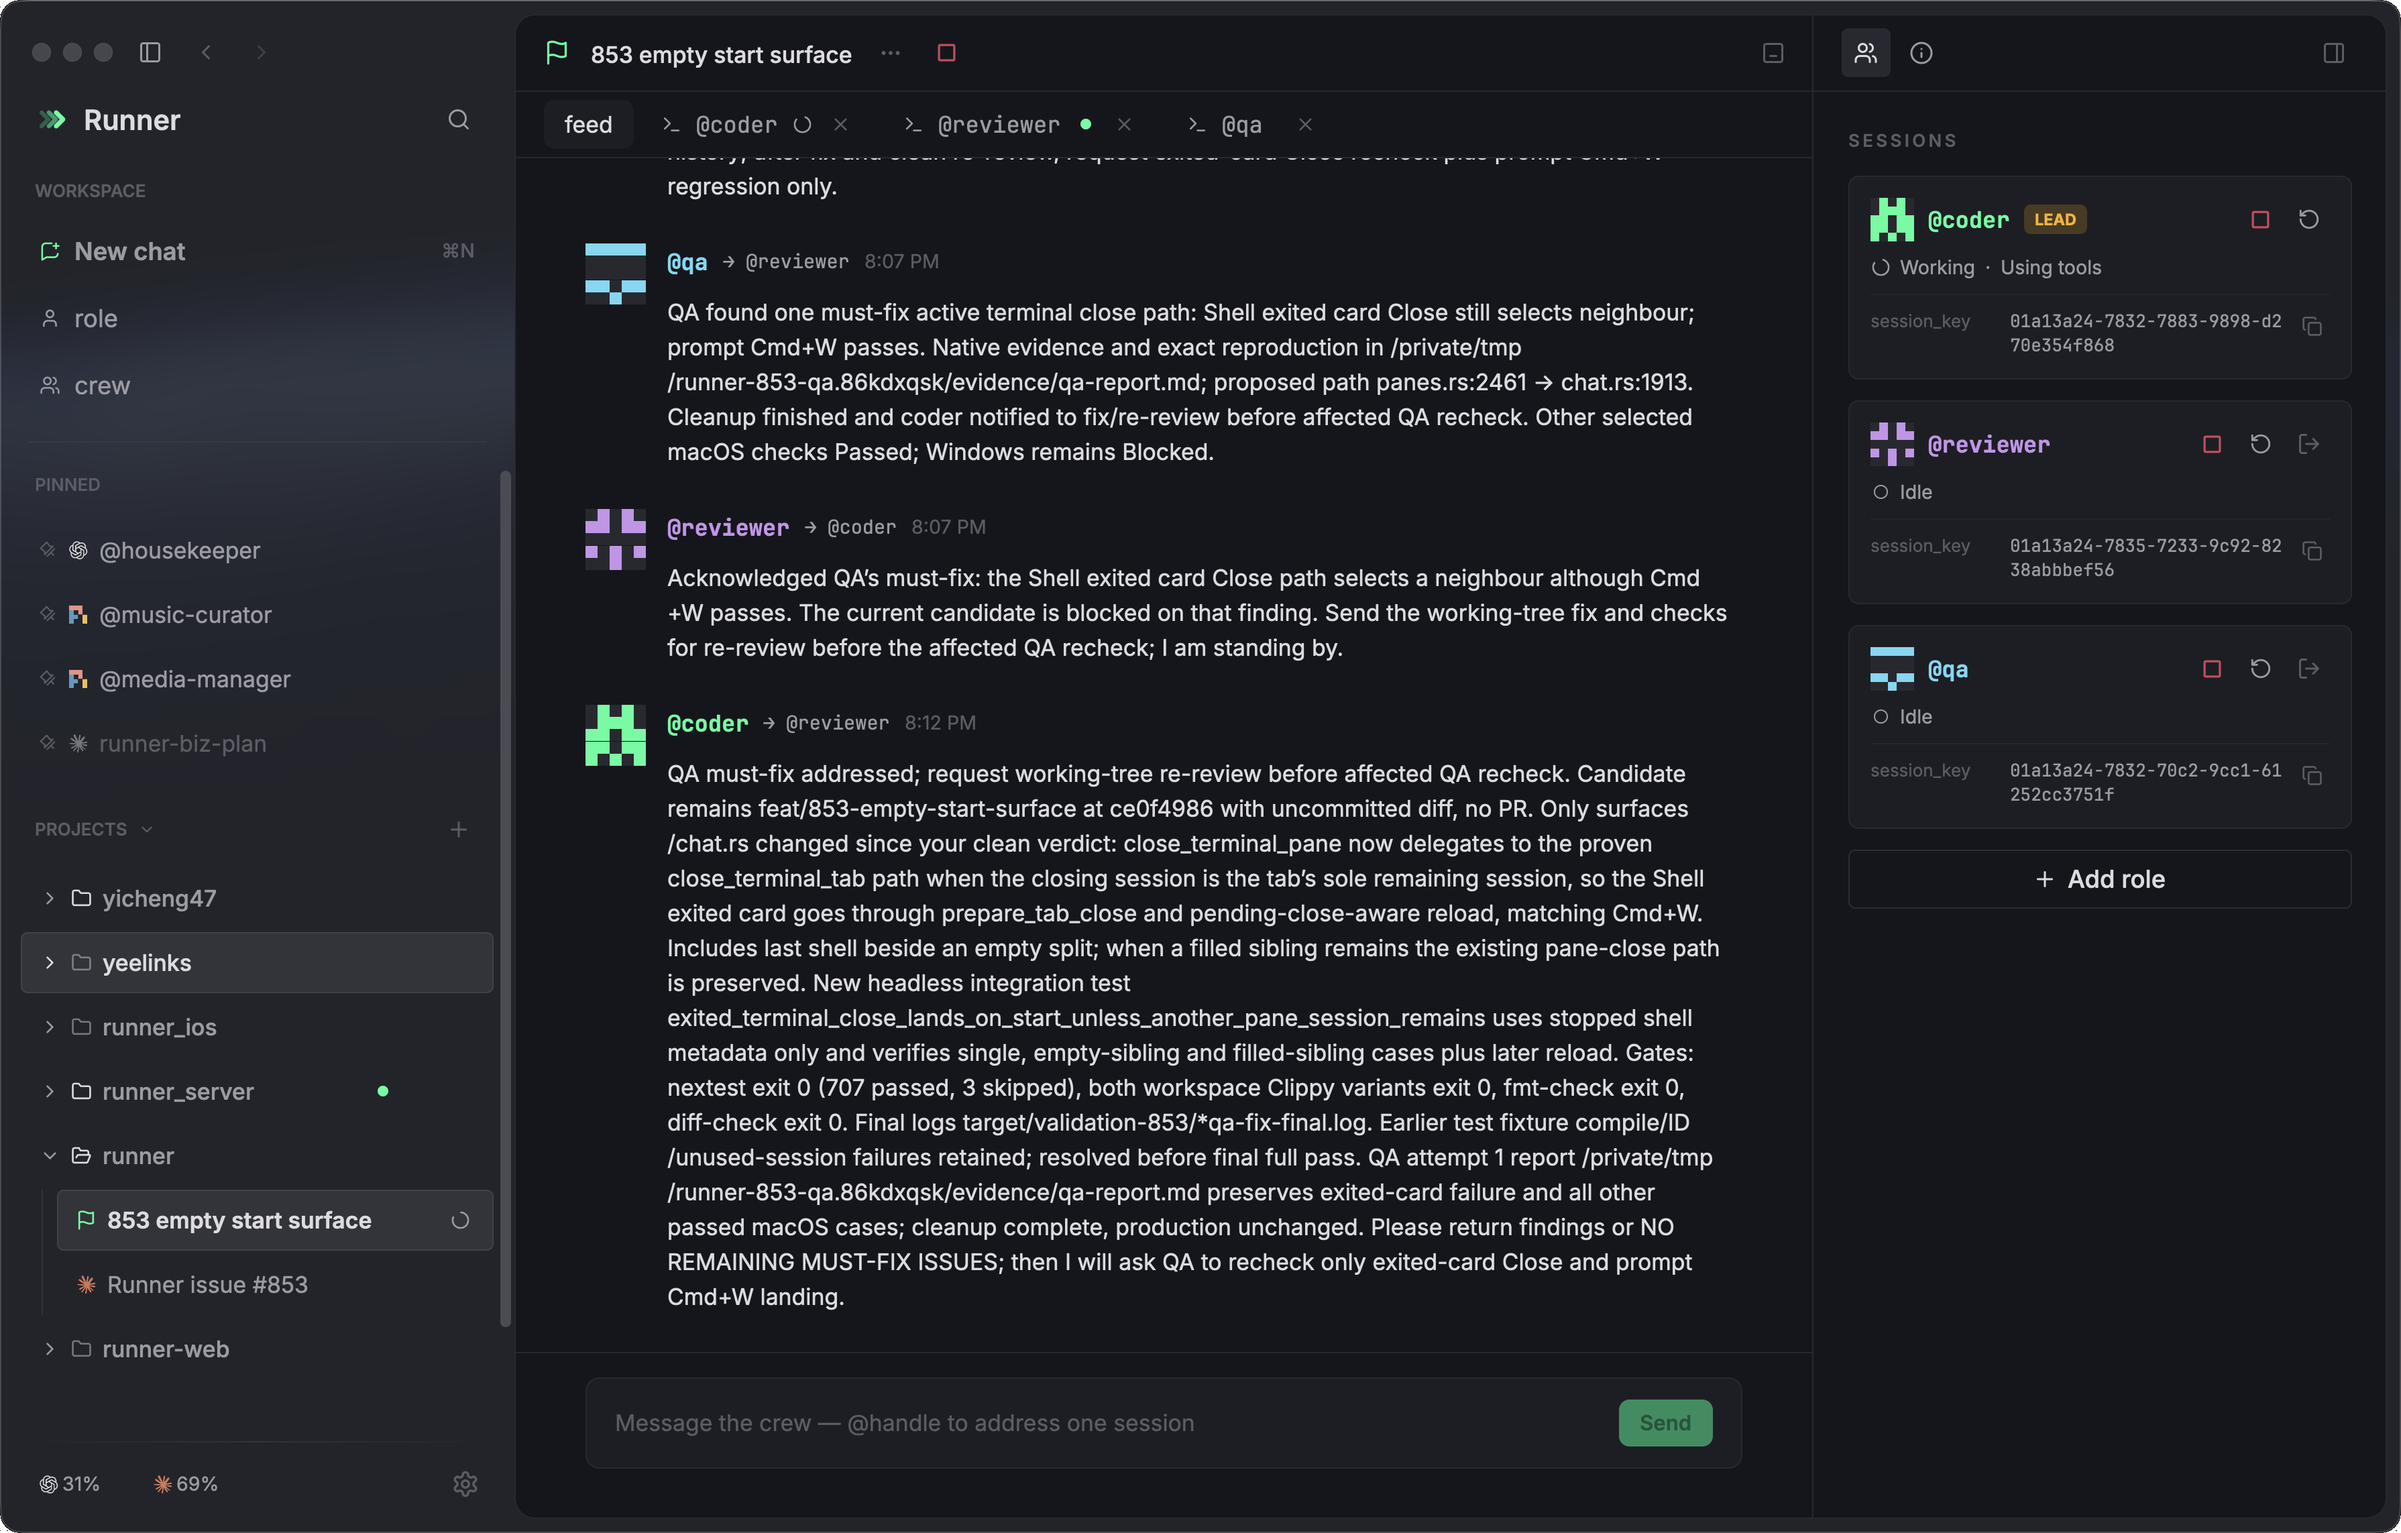
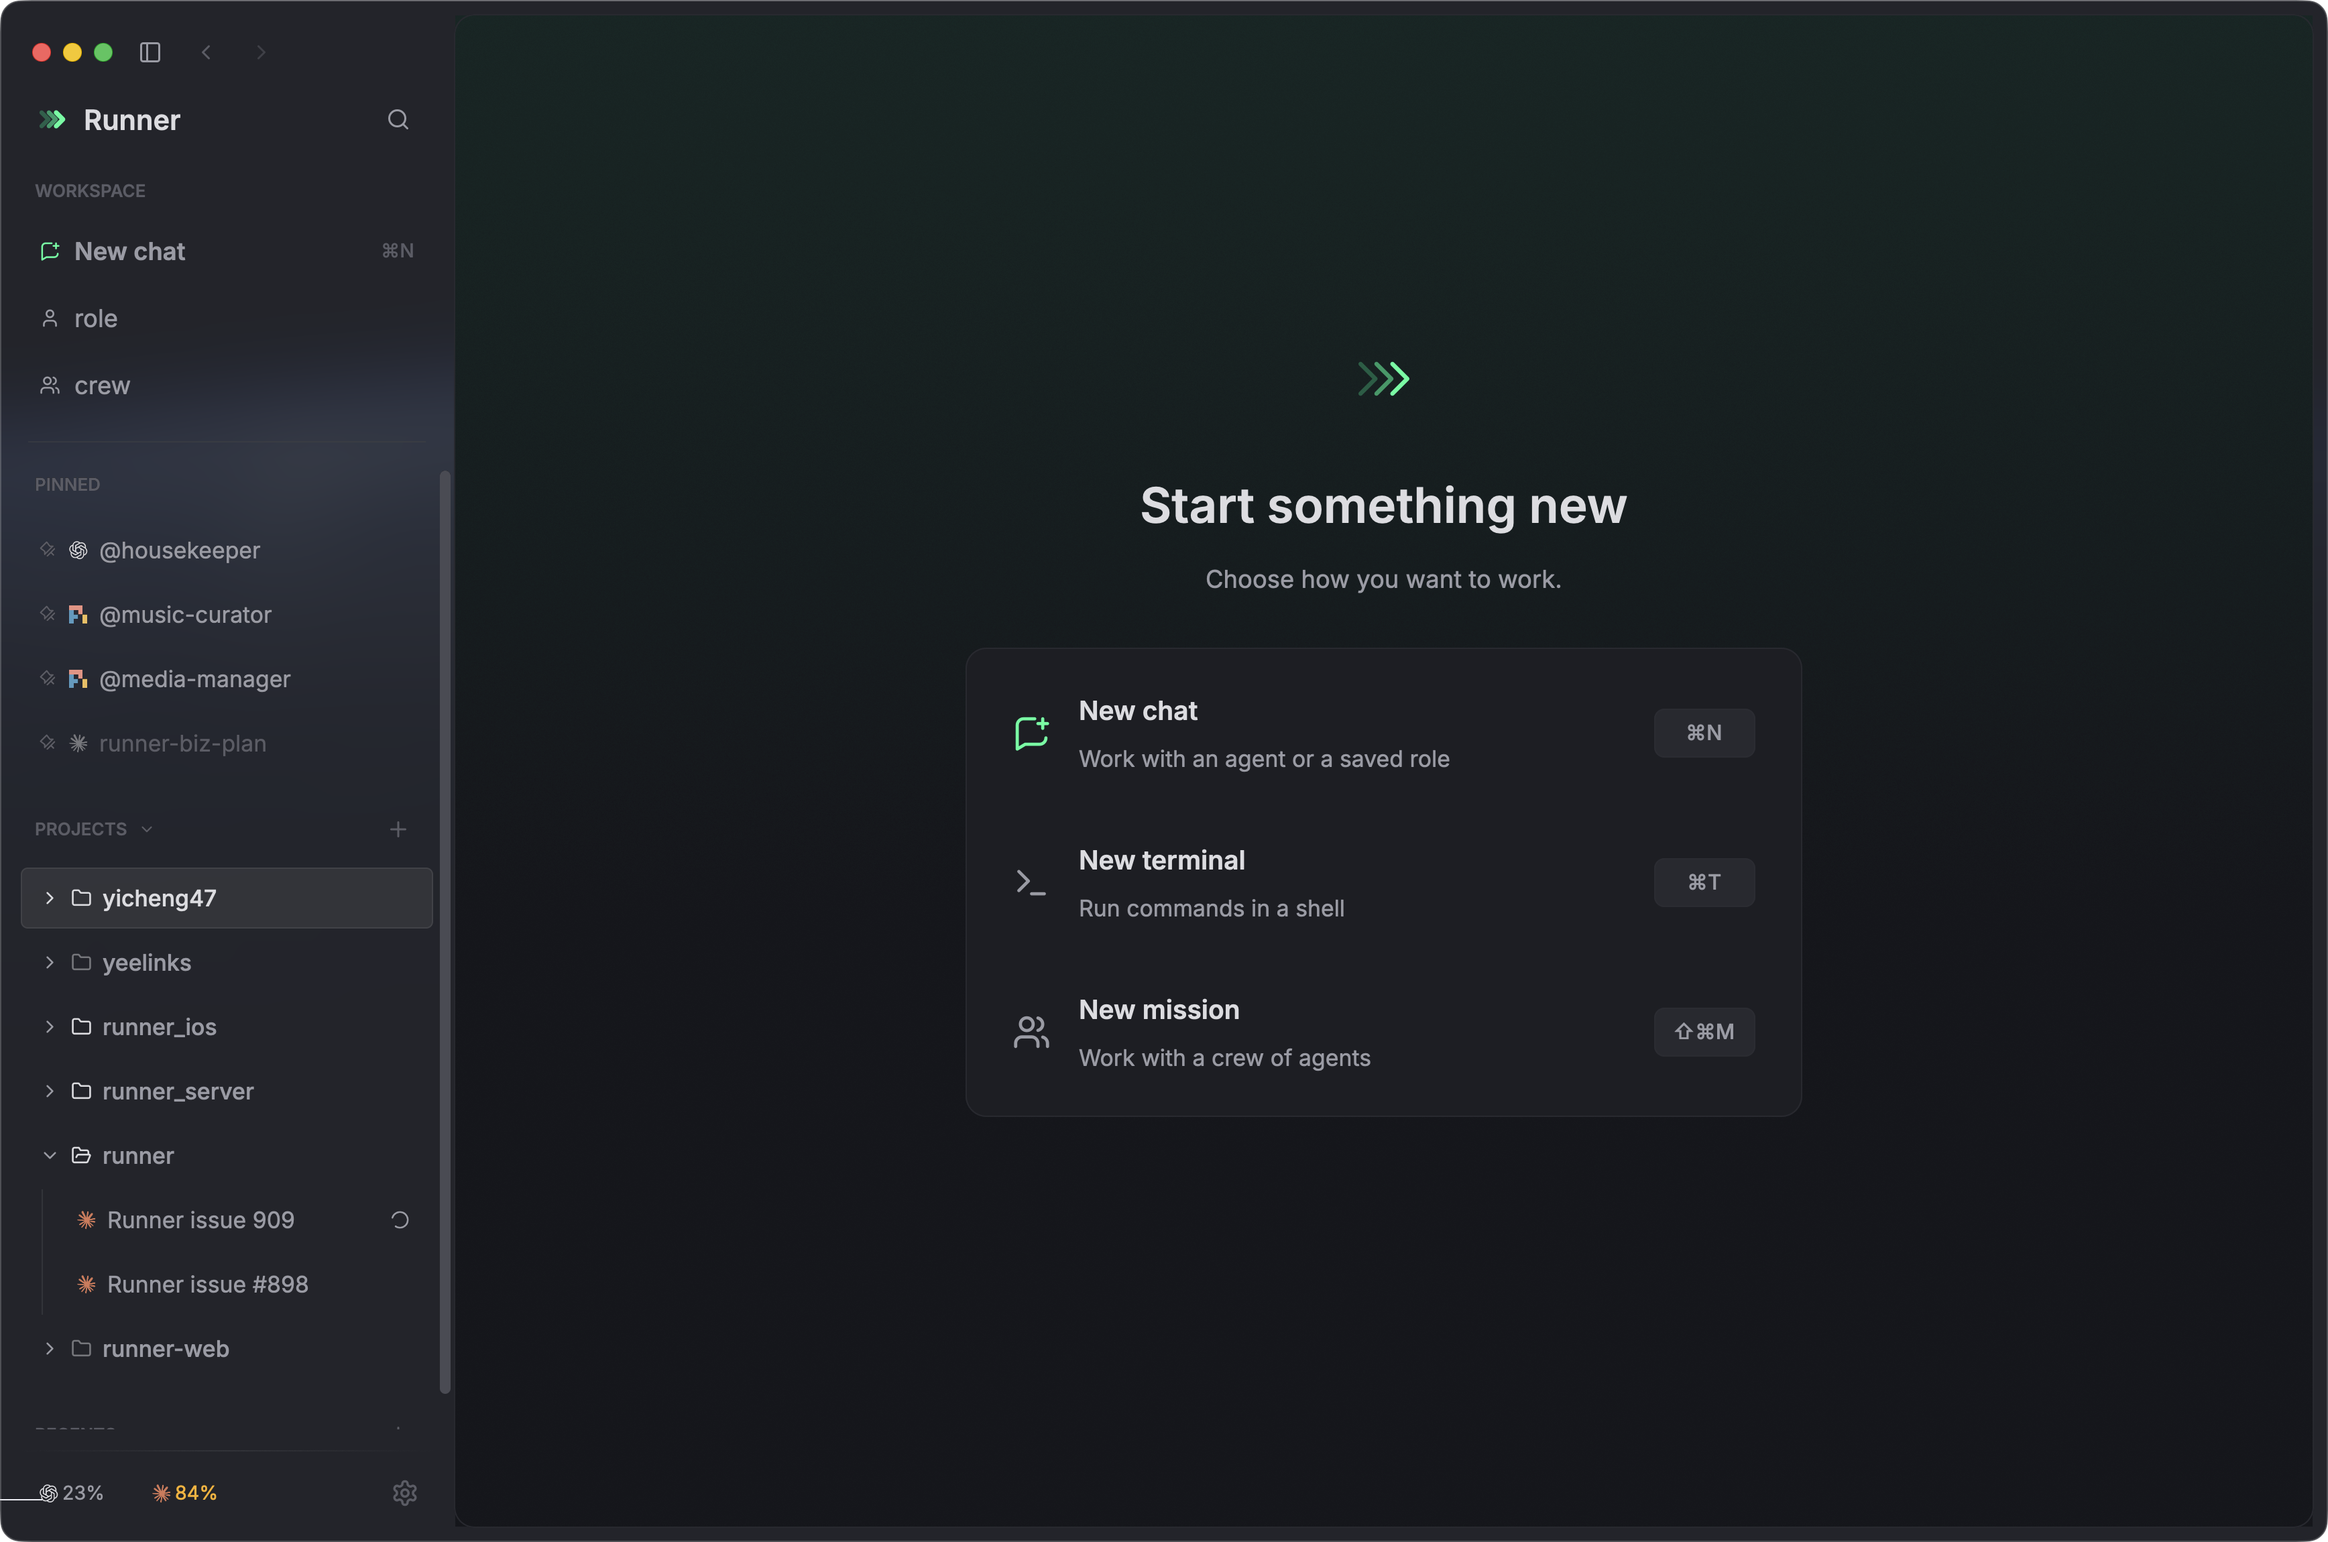
docs: refresh hero image and OpenCode support status

diff --git a/README.md b/README.md
@@ -30,7 +30,7 @@
 </p>
 
 <p align="center">
-  <img src="assets/hero.png" alt="Runner — coder, reviewer and QA coordinating in a mission feed, with Add role in the sessions rail" width="100%" />
+  <img src="assets/hero.png" alt="Runner start screen — start a new chat, terminal or crew mission from one workspace" width="100%" />
 </p>
 
 <p align="center">
@@ -152,7 +152,7 @@ runner mission stop "$mission"
 
 ⁵ Grok chats, missions and stop/resume passed native macOS checks; full app-relaunch persistence remains unverified.
 
-This local fork includes **OpenCode v2** as an enabled runtime for native PTY chats, roles and crews, with exact session IDs, dynamic models, skills and MCP settings. macOS and Windows native smoke remains pending; see the [OpenCode spec](./docs/features/archive/592-opencode-runtime.md) and [focused validation](./docs/tests/archive/592-opencode-runtime.md). Fork, usage/quota and update controls are unavailable.
+**OpenCode v2** is enabled by default and has been tested in Runner. It supports native PTY chats, roles and crews, exact session IDs, dynamic models, skills and MCP settings; see the [OpenCode spec](./docs/features/archive/592-opencode-runtime.md) and [focused validation](./docs/tests/archive/592-opencode-runtime.md). Fork, usage/quota and update controls are unavailable.
 
 Claude Code, Codex and Antigravity CLI are the primary agents. Claude Code and Codex have tuned launch and nudge timing. GitHub Copilot CLI needs a Copilot subscription. pi brings your own configured model provider. Antigravity CLI signs in with a Google account and updates itself when it starts, so it has no **Update** button. Cursor is enabled by default; see the [Cursor spec](./docs/features/archive/723-cursor-agent-runtime.md) for its current capabilities. Grok Build uses your existing grok.com sign-in, updates itself, and is enabled by default; see the [Grok spec](./docs/features/archive/723-grok-build-runtime.md) and [validation record](./docs/tests/archive/723-grok-build-runtime.md) for platform evidence. TRAE CLI is available as an opt-in runtime in Settings → Agents. [Issues](https://github.com/yicheng47/runner/issues) are welcome.
 

diff --git a/README.zh-CN.md b/README.zh-CN.md
@@ -30,7 +30,7 @@
 </p>
 
 <p align="center">
-  <img src="assets/hero.png" alt="Runner — coder、reviewer 和 QA 在 mission feed 中协作，成员侧栏提供 Add role 入口" width="100%" />
+  <img src="assets/hero.png" alt="Runner 起始页 — 在同一个工作区新建聊天、终端或 crew mission" width="100%" />
 </p>
 
 <p align="center">
@@ -152,7 +152,7 @@ runner mission stop "$mission"
 
 ⁵ Grok 的聊天、mission 和停止后恢复通过了 macOS 原生验证；完整重启 app 后的会话恢复尚未验证。
 
-本地 fork 已加入默认启用的 **OpenCode v2** runtime，接入原生 PTY 聊天、角色与 crew，以及精确会话 ID、动态模型、skills 和 MCP 设置。macOS 与 Windows 原生实测尚待完成，详见 [OpenCode 规格](./docs/features/archive/592-opencode-runtime.md) 和 [针对性验证](./docs/tests/archive/592-opencode-runtime.md)。暂不提供 Fork、用量/配额或更新按钮。
+**OpenCode v2** 默认启用，已在 Runner 中通过实测，支持原生 PTY 聊天、角色与 crew，以及精确会话 ID、动态模型、skills 和 MCP 设置。详见 [OpenCode 规格](./docs/features/archive/592-opencode-runtime.md) 和 [针对性验证](./docs/tests/archive/592-opencode-runtime.md)。暂不提供 Fork、用量/配额或更新按钮。
 
 Claude Code、Codex 和 Antigravity CLI 是主要支持的 agent。Claude Code 和 Codex 的启动和催促时序做过调优。GitHub Copilot CLI 需要 Copilot 订阅。pi 使用你已经配置好的模型提供商。Antigravity CLI 使用 Google 账号登录，并在启动时自行更新，所以没有 **Update** 按钮。Cursor 默认启用，当前能力详见 [Cursor 规格](./docs/features/archive/723-cursor-agent-runtime.md)。Grok Build 使用你已有的 grok.com 登录，自行更新，默认启用；各平台证据见 [Grok 规格](./docs/features/archive/723-grok-build-runtime.md) 和 [验证记录](./docs/tests/archive/723-grok-build-runtime.md)。TRAE CLI 可以在 Settings → Agents 中手动启用。欢迎提 [issue](https://github.com/yicheng47/runner/issues)。
 
